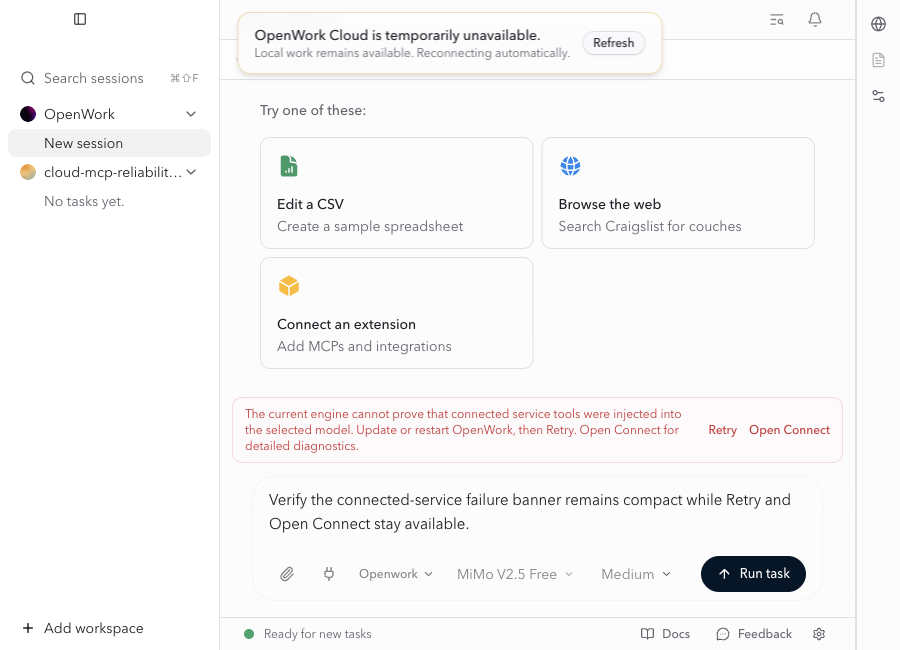
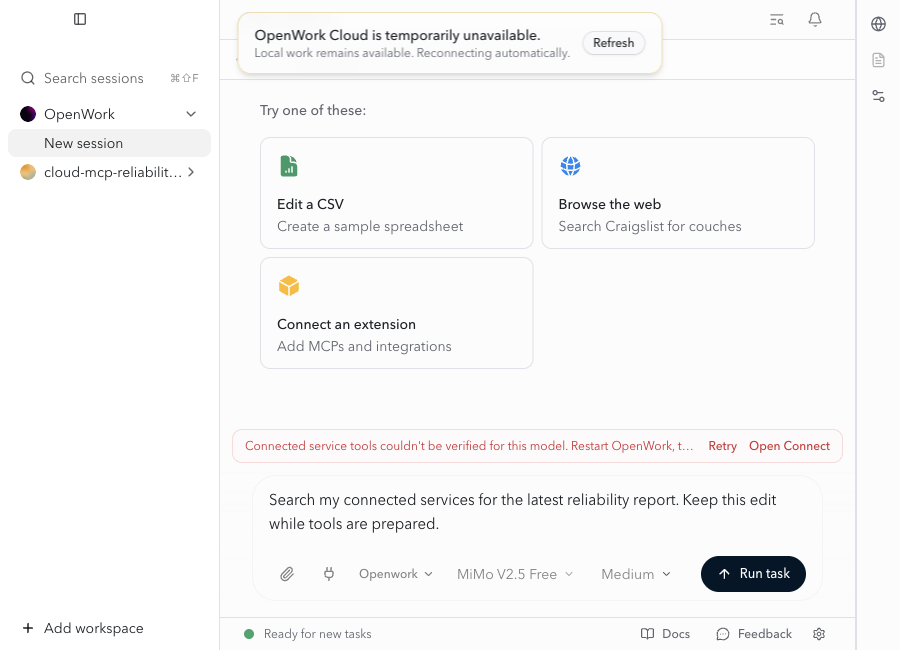
fix(mcp): ellipsize readiness failure details

diff --git a/apps/app/src/react-app/domains/session/surface/session-surface.tsx b/apps/app/src/react-app/domains/session/surface/session-surface.tsx
@@ -1355,6 +1355,11 @@ export function SessionSurface(props: SessionSurfaceProps) {
   }), [props.sessionId, renderedMessages]);
   useControlAction(sessionReadTranscriptControlAction);
 
+  const cloudMcpSubmissionFailureText = [
+    props.cloudMcpSubmissionState.issue?.message ?? "Connected service tools could not be prepared.",
+    props.cloudMcpSubmissionState.issue?.recommendedAction,
+  ].filter(Boolean).join(" ");
+
   return (
     <DevProfiler id="SessionSurface">
     <div
@@ -1494,11 +1499,8 @@ export function SessionSurface(props: SessionSurfaceProps) {
             className="mx-3 mb-2 flex max-h-24 items-center gap-3 overflow-hidden rounded-xl border border-red-7/40 bg-red-2/40 px-3 py-2 text-xs text-red-11"
             data-testid="cloud-mcp-submission-failure"
           >
-            <span className="max-h-16 min-w-0 flex-1 overflow-y-auto">
-              {[
-                props.cloudMcpSubmissionState.issue?.message ?? "Connected service tools could not be prepared.",
-                props.cloudMcpSubmissionState.issue?.recommendedAction,
-              ].filter(Boolean).join(" ")}
+            <span className="min-w-0 flex-1 truncate" title={cloudMcpSubmissionFailureText}>
+              {cloudMcpSubmissionFailureText}
             </span>
             <button type="button" className="shrink-0 font-medium hover:underline" onClick={handleRetryCloudSubmission}>
               Retry

diff --git a/apps/app/tests/cloud-mcp-submission-failure-banner.test.ts b/apps/app/tests/cloud-mcp-submission-failure-banner.test.ts
@@ -7,14 +7,16 @@ const sessionSurfacePath = fileURLToPath(
 );
 
 describe("Cloud MCP submission failure banner", () => {
-  test("caps diagnostic height without hiding recovery actions", () => {
+  test("ellipsizes diagnostics with a full hover title and visible recovery actions", () => {
     const source = readFileSync(sessionSurfacePath, "utf8");
     const banner = source.match(
       /<div\s+className="([^"]*max-h-24[^"]*)"\s+data-testid="cloud-mcp-submission-failure">([\s\S]*?)<ReactSessionComposer/,
     );
 
     expect(banner?.[1]).toContain("overflow-hidden");
-    expect(banner?.[2]).toMatch(/<span className="[^"]*max-h-16[^"]*overflow-y-auto[^"]*">/);
+    expect(banner?.[2]).toMatch(
+      /<span className="[^"]*truncate[^"]*" title=\{cloudMcpSubmissionFailureText\}>\s*\{cloudMcpSubmissionFailureText\}/,
+    );
     expect(banner?.[2]).toMatch(/<button[^>]*className="[^"]*shrink-0[^"]*"[^>]*>\s*Retry/);
     expect(banner?.[2]).toMatch(/<button[^>]*className="[^"]*shrink-0[^"]*"[^>]*>\s*Open Connect/);
   });

diff --git a/apps/app/src/react-app/domains/connections/cloud-mcp-submit-readiness.ts b/apps/app/src/react-app/domains/connections/cloud-mcp-submit-readiness.ts
@@ -201,8 +201,8 @@ export function assessCloudMcpSubmissionReadiness(input: {
         code: "provider_tool_projection_unverified",
         stage: "provider_projection",
         retryable: false,
-        message: "The current engine cannot prove that connected service tools were injected into the selected model.",
-        recommendedAction: "Update or restart OpenWork, then Retry. Open Connect for detailed diagnostics.",
+        message: "Connected service tools couldn't be verified for this model.",
+        recommendedAction: "Restart OpenWork, then Retry, or open Connect for details.",
       }),
     };
   }
